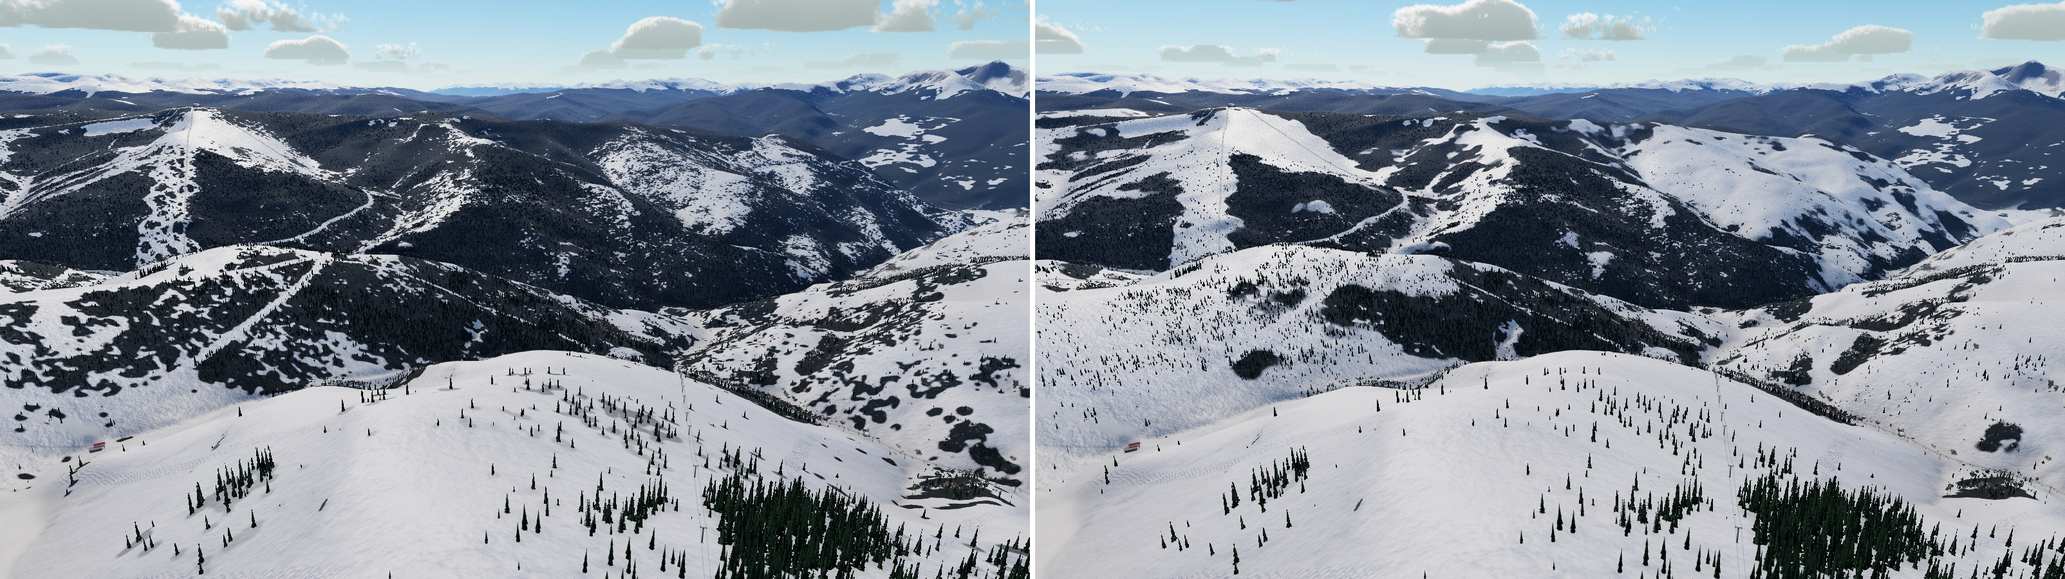
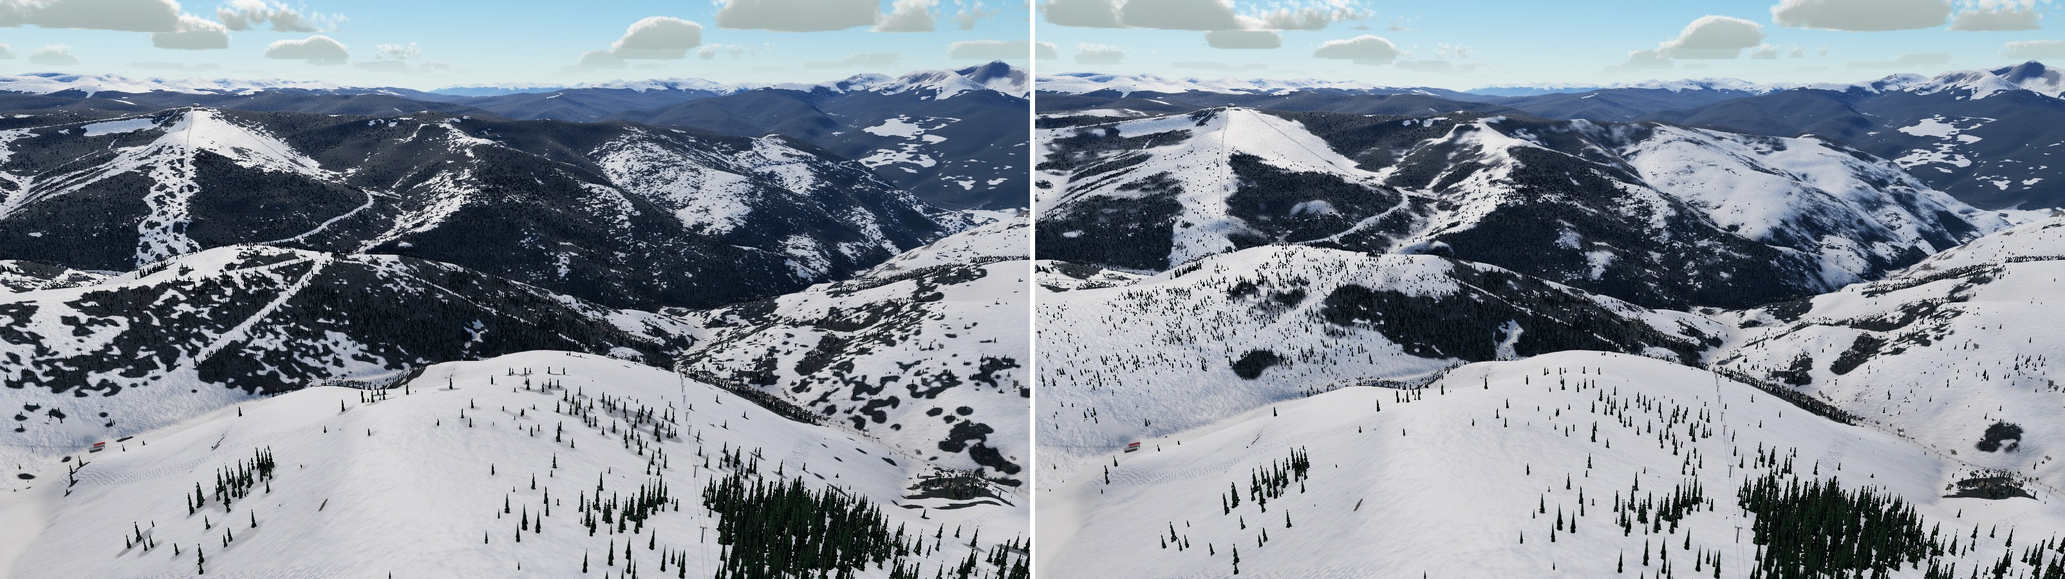
BUG-069: two forest views per cover level: closed stands near, crown-weighted mass from far off

diff --git a/game/src/terrain/TerrainMaterial.ts b/game/src/terrain/TerrainMaterial.ts
@@ -82,7 +82,7 @@ export const LIFT_RAMP = 2000;
 export const COVER_SLOTS = 3;
 const EMPTY_RECT = new THREE.Vector4(-1e7, -1e7, -1e7 + 1000, -1e7 + 1000); // weight 0 everywhere, finite uv
 function coverUniforms() {
-  const blank = new THREE.DataTexture(new Uint8Array(1), 1, 1, THREE.RedFormat, THREE.UnsignedByteType);
+  const blank = new THREE.DataTexture(new Uint8Array(2), 1, 1, THREE.RGFormat, THREE.UnsignedByteType);
   blank.needsUpdate = true;
   return {
     uCov0: { value: blank as THREE.Texture }, uCov1: { value: blank as THREE.Texture }, uCov2: { value: blank as THREE.Texture },
@@ -216,12 +216,18 @@ export function createTerrainMaterial(): THREE.MeshStandardMaterial {
         #define COVER_FULL 600.0
         float covW(vec2 p, vec4 r) { vec2 d = min(p - r.xy, r.zw - p); return smoothstep(0.0, uCovBlend, min(d.x, d.y)); }
         vec2 covUV(vec2 p, vec4 r) { return vec2((p.x - r.x) / (r.z - r.x), (r.w - p.y) / (r.w - r.y)); }
+        // BUG-069: G of a level is its forest under closed stands of drawn trees only, shown while single
+        // trees read (to STAND_NEAR m); R, the forest as a mass, takes over by STAND_FAR
+        #define STAND_NEAR 1200.0
+        #define STAND_FAR 2800.0
         // forest share (x) blended finest over coarsest, and how much of it is data (y). All three are
         // sampled unconditionally so the mip selection never sits in non-uniform control flow.
-        vec2 coverForest(vec2 p) {
-          float f0 = texture2D(uCov0, covUV(p, uCovRect[0])).r;
-          float f1 = texture2D(uCov1, covUV(p, uCovRect[1])).r;
-          float f2 = texture2D(uCov2, covUV(p, uCovRect[2])).r;
+        vec2 coverForest(vec2 p, float dist) {
+          float farK = smoothstep(STAND_NEAR, STAND_FAR, dist);
+          vec2 t0 = texture2D(uCov0, covUV(p, uCovRect[0])).rg;
+          vec2 t1 = texture2D(uCov1, covUV(p, uCovRect[1])).rg;
+          vec2 t2 = texture2D(uCov2, covUV(p, uCovRect[2])).rg;
+          float f0 = mix(t0.g, t0.r, farK), f1 = mix(t1.g, t1.r, farK), f2 = mix(t2.g, t2.r, farK);
           float w0 = covW(p, uCovRect[0]), w1 = covW(p, uCovRect[1]), w2 = covW(p, uCovRect[2]);
           float f = f0 * w0, c = w0;
           f = mix(f, f1, w1); c = mix(c, 1.0, w1);
@@ -402,7 +408,7 @@ export function createTerrainMaterial(): THREE.MeshStandardMaterial {
         // cover is low in the data (BUG-028), so it is lifted; runs and bowls (no canopy) stay white.
         // FEAT-153: past COVER_NEAR the forest comes per pixel from the cover levels (already a share of
         // ground under closed canopy, so only a mild S curve keeps mip-averaged trail edges from greying)
-        vec2 cov = coverForest(vec2(wp.x, -wp.z));
+        vec2 cov = coverForest(vec2(wp.x, -wp.z), dist);
         float covK = cov.y * smoothstep(COVER_NEAR, COVER_FULL, dist);
         float forestV = mix(vForest, cov.x, covK);
         float forestK = mix(smoothstep(FOREST_LO, FOREST_HI, vForest), smoothstep(0.1, 0.9, cov.x), covK);

diff --git a/game/src/pack/CoverSet.ts b/game/src/pack/CoverSet.ts
@@ -19,7 +19,7 @@ export class CoverLevel {
   private cw = 0;
   private ch = 0;
   private cres = 0;
-  /** forest channel at full resolution, mipmapped */
+  /** forest at full resolution, mipmapped: R from far off, G from near */
   texture: THREE.DataTexture | null = null;
 
   constructor(meta: CoverLevelMeta) {
@@ -36,10 +36,21 @@ export class CoverLevel {
     const { w, h } = this.meta;
     const px = decodeRGBA(bmp, w, h);
     bmp.close();
-    // GPU: the forest channel only
-    const r = new Uint8Array(w * h);
-    for (let i = 0; i < w * h; i++) r[i] = px[i * 4];
-    const tex = new THREE.DataTexture(r, w, h, THREE.RedFormat, THREE.UnsignedByteType);
+    // GPU: R = the forest as seen from far off, G = from near, where single trees show (BUG-069: only the
+    // closed stands of drawn trees; the same as R for a level without a `stands` image)
+    let near: Uint8ClampedArray | null = null;
+    if (this.meta.stands) {
+      try {
+        const r2 = await fetch(`${baseUrl}/${this.meta.stands}`);
+        if (!r2.ok) throw new Error(`HTTP ${r2.status}`);
+        const b2 = await createImageBitmap(await r2.blob(), { premultiplyAlpha: 'none', colorSpaceConversion: 'none' });
+        near = decodeRGBA(b2, w, h);
+        b2.close();
+      } catch (e) { console.warn(`cover ${this.meta.stands} not loaded`, e); }
+    }
+    const r = new Uint8Array(w * h * 2);
+    for (let i = 0; i < w * h; i++) { r[i * 2] = px[i * 4]; r[i * 2 + 1] = near ? near[i * 4] : px[i * 4]; }
+    const tex = new THREE.DataTexture(r, w, h, THREE.RGFormat, THREE.UnsignedByteType);
     tex.minFilter = THREE.LinearMipmapLinearFilter;
     tex.magFilter = THREE.LinearFilter;
     tex.wrapS = tex.wrapT = THREE.ClampToEdgeWrapping;

diff --git a/game/src/pack/types.ts b/game/src/pack/types.ts
@@ -28,6 +28,8 @@ export interface CoverLevelMeta {
   w: number;
   h: number;
   file: string;
+  /** BUG-069: optional greyscale PNG, same grid: the forest share under closed stands of drawn trees (the near view) */
+  stands?: string;
 }
 
 export interface CoverMeta {

diff --git a/pipeline/cover.py b/pipeline/cover.py
@@ -43,11 +43,17 @@ PACK_RUN_K = 0.6
 # far the far ring's data (cfg far_ring size_m)
 LC_LEVELS = (("mid", 16.0, 4), ("far", 100.0, 3))
 # BUG-069: the lifted lidar canopy reads a sparse stand (a tree every 10 m or so) as closed canopy, so far off
-# its snow went black between the few trees drawn there. The pack level's forest is kept only where the drawn
-# trees make a closed stand: the share of the ground under their crowns (averaged over CROWN_SIGMA m) passes
-# CROWN_LO..CROWN_HI (dense timber on Vail draws 0.2 to 0.4, sparse bowl stands 0.05 to 0.15), and the stand
-# is at least 2 x STAND_MIN_R m across (a grey opening), so a clump of a dozen trees on open snow is carried
-# by its trees alone instead of a dark patch around them.
+# its snow went black between the few trees drawn there. The pack level's forest is weighted by the trees the
+# client draws, twice:
+#   R (seen from far off, where single trees no longer read): by the share of the ground under their crowns,
+#     averaged over FAR_SIGMA m, full weight from CROWN_FULL up (dense timber on Vail draws 0.2 to 0.4, sparse
+#     bowl stands 0.05 to 0.15), so timber stays a solid dark mass and sparse stands fade to mostly white.
+#   stands (seen from near, where every tree shows): only closed stands keep it: the crown share (averaged
+#     over CROWN_SIGMA m) passes CROWN_LO..CROWN_HI and the stand is at least 2 x STAND_MIN_R m across (a grey
+#     opening, then a closing to fill the holes), so a clump of a dozen trees on open snow is carried by its
+#     trees alone instead of a dark patch around them.
+FAR_SIGMA = 16.0
+CROWN_FULL = 0.2
 CROWN_SIGMA = 10.0
 CROWN_LO, CROWN_HI = 0.05, 0.14
 STAND_MIN_R = 20.0
@@ -133,10 +139,10 @@ def tree_heights(pack_dir, meta, cell, w, h):
     return np.repeat(np.repeat(mean, k, 0), k, 1)[:h, :w]
 
 
-def crown_share(pack_dir, meta, w, h):
-    """BUG-069: the share of the ground (0..1) under the crowns the client draws, per PACK_RES cell over the
-    pack bounds (row 0 = north), averaged over CROWN_SIGMA. Crown radii as game/src/world/trees/species.ts
-    crownRadius: the species' natural radius times the height, pulled 0.85..1.25x toward the record's crown."""
+def crown_area(pack_dir, meta, w, h):
+    """BUG-069: the share of each PACK_RES cell over the pack bounds (row 0 = north) under the crowns the
+    client draws, unsmoothed (a cell can pass 1). Crown radii as game/src/world/trees/species.ts crownRadius:
+    the natural radius of the species times the height, pulled 0.85..1.25x toward the crown in the record."""
     b = meta["bounds"]
     area = np.zeros((h, w), np.float64)
     for t in tree_records(pack_dir, meta):
@@ -147,12 +153,11 @@ def crown_share(pack_dir, meta, w, h):
         c = ((t[:, 0] - b["minX"]) / PACK_RES).astype(int); r = ((b["maxY"] - t[:, 1]) / PACK_RES).astype(int)
         ok = (c >= 0) & (c < w) & (r >= 0) & (r < h)
         np.add.at(area, (r[ok], c[ok]), np.pi * cr[ok] ** 2)
-    from scipy import ndimage
-    return ndimage.gaussian_filter((area / PACK_RES ** 2).astype(np.float32), CROWN_SIGMA / PACK_RES)
+    return (area / PACK_RES ** 2).astype(np.float32)
 
 
 def closed_stand(crowns):
-    """BUG-069: 0..1 weight of the ground that is under a closed stand of drawn trees (see CROWN_LO above)"""
+    """BUG-069: 0..1 weight of the ground under a closed stand of drawn trees, from their smoothed crown share"""
     from scipy import ndimage
     dense = smoothstep(CROWN_LO, CROWN_HI, crowns).astype(np.float32)
     r = int(round(STAND_MIN_R / PACK_RES))
@@ -191,13 +196,21 @@ def pack_level(pack_dir, meta, runs, log=print):
     log(f"  pack cover {w} x {h} at {PACK_RES:g} m: forest {forest.mean()*100:.1f}%, "
         f"runs clear {(forest * burn).sum() / max(forest.sum(), 1) * 100:.1f}% of it")
     forest *= 1 - burn
-    crowns = crown_share(pack_dir, meta, w, h)
+    crowns = crown_area(pack_dir, meta, w, h)
+    stands = None
     if crowns.any():   # a pack without tree instances keeps its canopy (the ground then carries the forest)
+        from scipy import ndimage
         before = forest.sum()
-        forest *= closed_stand(crowns)
-        log(f"  closed stands of drawn trees keep {forest.sum() / max(before, 1) * 100:.1f}% of the forest (BUG-069)")
+        stands = forest * closed_stand(ndimage.gaussian_filter(crowns, CROWN_SIGMA / PACK_RES))
+        forest *= np.clip(ndimage.gaussian_filter(crowns, FAR_SIGMA / PACK_RES) / CROWN_FULL, 0, 1)
+        log(f"  drawn trees keep {forest.sum() / max(before, 1) * 100:.1f}% of the forest from far off, "
+            f"closed stands {stands.sum() / max(before, 1) * 100:.1f}% from near (BUG-069)")
     height = tree_heights(pack_dir, meta, 16.0, w, h)
-    return write_level(pack_dir, "pack", to_rgba(forest, height, rock, np.zeros_like(forest)), PACK_RES, b["minX"], b["minY"])
+    lv = write_level(pack_dir, "pack", to_rgba(forest, height, rock, np.zeros_like(forest)), PACK_RES, b["minX"], b["minY"])
+    if stands is not None:
+        lv["stands"] = "cover/pack-stands.png"
+        Image.fromarray((np.clip(stands, 0, 1) * 255 + 0.5).astype(np.uint8), "L").save(os.path.join(pack_dir, lv["stands"]), optimize=True)
+    return lv
 
 
 # ------------------------------------------------------------------ DATA-019: land cover outside the pack

diff --git a/docs/developer-guide.md b/docs/developer-guide.md
@@ -7,7 +7,7 @@ pipeline script, URL parameters and the milestone history. Process docs: [HANDOF
 
 ## Features in detail
 
-- Terrain: quadtree LOD over the 262 km far ring, 1 m near the rider, snow / rock / scree / groomed material; forested ground darkens from the tree impostor ring outward so the far forest reads dark. Distant forest (FEAT-153, `pack/CoverSet.ts`): past about 300 m the shader takes the forest share per pixel from the pack's cover levels (`cover/*.png`, a mipmapped texture per level, up to 3), so the real forest edges and the ski trails cut through it show at any distance; chunks coarser than 8 m take forest, rock and canopy height from the same levels per vertex instead of the procedural treeline (`proceduralForest`, now only where no level reaches or before they load). From the impostors' reach (`uLiftNear`, Vegetation's FAR_RADIUS: 4.5 km at full tree density, nearer on lower density settings) to 2 km past it, chunks coarser than 8 m rise by canopy height x cover x 0.7 (the `lift` attribute, applied in the vertex shader) so forested ridges read as treed; the far timber has a crown-scale texture that fades to an even tone once a pixel is wider than a crown. Forest from high up (FEAT-154, `docs/research/far-terrain.md` section 7): how dark forested ground goes is a gap fraction, `1 - ((1 - s) / (1 - rho s))^(1 / mu)` of the cover share `s` and the cosine `mu` between the ground normal and the view, so grazing views from the snow see a closed mass and views from the air see the openings; inside the trees' reach `rho` (`uForestDrawn`, 0.7) is the part of the canopy the drawn trees already cover, and outside the pack's tree instances (`uTreeRect`, set by `Terrain` from `meta.instances`) the ground carries the forest from the first metre. Sunlit canopy takes `uCanopySun` (0.3) of the direct light and a forested pixel is `uTimberMix` (0.97) timber. `uDebugFar` switches terms off for A/B stills (x forest, y rock and talus, z snow drift normals; w paints the forest darkening red), for example `SHOT_EVAL` or a `tools/aerial.mjs` variant setting `__sim.terrain.material.userData.uniforms.uDebugFar.value.set(1, 0, 0, 0)`.
+- Terrain: quadtree LOD over the 262 km far ring, 1 m near the rider, snow / rock / scree / groomed material; forested ground darkens from the tree impostor ring outward so the far forest reads dark. Distant forest (FEAT-153, `pack/CoverSet.ts`): past about 300 m the shader takes the forest share per pixel from the pack's cover levels (`cover/*.png`, a mipmapped texture per level, up to 3), so the real forest edges and the ski trails cut through it show at any distance; to 1.2 km it reads the level's closed stands of drawn trees (G of the texture, the `stands` image) and from 2.8 km the forest as a mass (R), so open slopes with a few trees stay white up close and far timber stays solid (BUG-069); chunks coarser than 8 m take forest, rock and canopy height from the same levels per vertex instead of the procedural treeline (`proceduralForest`, now only where no level reaches or before they load). From the impostors' reach (`uLiftNear`, Vegetation's FAR_RADIUS: 4.5 km at full tree density, nearer on lower density settings) to 2 km past it, chunks coarser than 8 m rise by canopy height x cover x 0.7 (the `lift` attribute, applied in the vertex shader) so forested ridges read as treed; the far timber has a crown-scale texture that fades to an even tone once a pixel is wider than a crown. Forest from high up (FEAT-154, `docs/research/far-terrain.md` section 7): how dark forested ground goes is a gap fraction, `1 - ((1 - s) / (1 - rho s))^(1 / mu)` of the cover share `s` and the cosine `mu` between the ground normal and the view, so grazing views from the snow see a closed mass and views from the air see the openings; inside the trees' reach `rho` (`uForestDrawn`, 0.7) is the part of the canopy the drawn trees already cover, and outside the pack's tree instances (`uTreeRect`, set by `Terrain` from `meta.instances`) the ground carries the forest from the first metre. Sunlit canopy takes `uCanopySun` (0.3) of the direct light and a forested pixel is `uTimberMix` (0.97) timber. `uDebugFar` switches terms off for A/B stills (x forest, y rock and talus, z snow drift normals; w paints the forest darkening red), for example `SHOT_EVAL` or a `tools/aerial.mjs` variant setting `__sim.terrain.material.userData.uniforms.uDebugFar.value.set(1, 0, 0, 0)`.
 - Trees (FEAT-156, `world/trees/`, drawn by `world/Vegetation.ts`): a procedural asset kit, nothing downloaded. `species.ts` is the table of the eight species (ids as in the pack, DATA-020: 0 Engelmann spruce, 1 aspen, 2 krummholz, 3 subalpine fir, 4 lodgepole, 5 Douglas-fir, 6 limber pine, 7 snag) with their shape, colours, whorls and variant weights; packs without `meta.treeSpecies` (0 to 2 only) split their conifers 60/40 into spruce and fir by a position hash. `textures.ts` draws one 1024 x 1024 atlas at load (12 grey branch-spray cells and 8 bark swatches, tinted per species by vertex colour; transparent texels carry the cell's mean colour and each mip keeps the cell's alpha coverage). `generate.ts` builds every species x 4 variants (seeded: tier count, gaps, droop, lean, a double or broken top on some spruce and fir) at unit height and crown radius 1 from one plan per variant, so LOD0 (trunk + bent alpha cards, normals bent out from the trunk) and LOD1 (trunk + star-edged cones or blobs) share a silhouette. `materials.ts` holds the LOD hook: each LOD draws only in its band of distance from the camera (`kitUniforms.uLodCam`, so the shadow pass agrees) and crossfades with the next by a screen-door dither (Bayer 8x8, complementary cells); LOD0 sways (`TreeKit.setWind`). LOD2 (crossed quads) and the impostors (camera-facing quads) sample albedo and normal atlases baked from LOD0 (`TreeKit.bake`, 8 angles x 8 species) and are lit in the shader like the standard material (sun, hemisphere, a quarter of the GGX specular, `FAR_GAIN`), so the colour holds across the swaps. Bands: LOD0 to 80 m, LOD1 to 400 m, LOD2 to 1.5 km, impostors to 4.5 km, scaled by the tree density setting (`setVegetationDensity`). `Vegetation` fills LOD0 and LOD1 from the trees near the camera (one InstancedMesh per species x variant, regathered every 25 / 60 m of camera movement through a 100 m sub-tile index per cell) and keeps one LOD2 and one impostor mesh per 1 km cell (all species, `iSpec` per instance). Tune the look with `tools/treeshot.mjs`, the cost with `tools/treeperf.mjs`.
 - Riding: carving on a real edge angle (up to 72 deg on firm snow, 45 in powder) with the turn radius from the board's sidecut, washing into a skid past the grip; edge to edge takes about 0.3 s at speed; the rider leans into the hill up to 60 deg with deep toeside and heelside carve poses. Hard carve (FEAT-148, the squat key held while steering): `Rider.hardCarve` eases in, the edge cap goes to `HARD_PSI` (80 deg) and the edge rolls `HARD_ROLL` times faster (slowing with the square of the speed past `HARD_ROLL_V`), the lean may reach `HARD_PHI` and the snow holds up to `HARD_G` (2.6 g) times its grip; the press asks for the turn of the target edge, driven in over `HARD_DRIVE_T` once the edge is on the steer's side, while the edge holds only what its real angle balances, so a lagging edge (pressed from flat at speed, on ice) skids (`carveShort`, folded into `skid` for the drag, spray and sound) and short of more than `WASH_SHARE` (35%) of the turn asked, at speed, fills `washout` (a share, so softer snow that asks less washes out alike; the snow's grip scales what the edge holds; only deep powder, its share times depth over `HARD_DEEP` 30 cm, lowers the hard carve's edge cap and stops the washout); full, the rider crashes to the inside of the turn (`crashSide`, the ragdoll topples that way) and `onWashout` toasts it. `HARD_DRAG` adds a drag from the lateral acceleration. The view lays the body over to `LEAN_HARD` (73 deg) in the deep carve stance (BUG-066: the squat pose fades out while `hardCarve` is in, and `RiderView.deckDeficit` lifts the hips until the shins, knees and thighs clear the deck in the board's own frame, `DECK_CLEAR`) and drags the inside hand on the snow; the spray, the track depth and the carve hiss rise with it; `?debug` shows hard, short and wash. Also tuck, brake (the board swings across into a hockey stop, scrapes a wide track and holds on its edge once stopped; steering while braking digs the edge in for a harder stop or lets it off into a skidded turn or a side-slip), the fall line (a flat board follows its slide down the hill and side-slips when let go across it unless the uphill edge is held; on Realistic the edge catches when the board slides sideways onto its leading edge, or slides flat over rough snow; Settings > Gameplay > Fall line: Realistic (the default), Assisted, Off; the Feel presets set it, Arcade to Off), charged jumps with ollie and nollie off the board's spring (hold W / S with Space), nose and tail presses (Q / Z) balanced on a meter (FEAT-140: `Rider.pressStep`, the needle `pressBalance` drifts with the hold time, speed and bumps, runs away off centre, and W / S or the stick shift the weight back (over 0.15 s, and always strong enough to win, so there is no time limit); off the loaded end a slam that topples the ragdoll over that end (`Rider.crashFall`) or a stall, off the other end the board drops flat; a press key held through a trick lands into the press (`pressFrom`); `onPress` reports the time and distance, `ui/PressMeter.ts` draws the meter over the head, tunables `PB_*` and `PRESS_RANGE` (how far the balance runs before it is lost; the body leans in proportion) at the top of `Rider.ts`, Settings > Gameplay > Press balance Easy / Normal / Hard / Off, also set by the Feel presets), squat (Left Ctrl), skating on the flat (X), grabs, air spins, front flips and backflips (Up / Down in the air, trick names toast on landing: flips, and spins as "Frontside 180" / "Backside 360"), landings; collisions with trees, rocks and building walls. The snowboard bends when loaded. Snowboard or skis, outfit colours, articulated rider with blended poses. The body leads and the board follows (BUG-056, visual only): the head and shoulders pose about 0.2 s ahead of the physics (the steer's target edge and the heading the turn rate is reaching), the hips and the body's inclination about 0.12 s ahead, each lead signal followed through a critically damped 0.09 s body response (`BODY_RESPONSE`) so the body moves at a human speed instead of snapping to its prediction, and the board as drawn trails the physics yaw and edge by about 0.08 s (critically damped, never rolled past the physics edge, snapped on landings and crashes), so an edge change reads look, shoulders, hips, knees, board. Tunables `LEAD_UPPER`, `LEAD_HIPS`, `BOARD_LAG` at the top of `RiderView.ts`, live on `riderView.leadUpper` / `leadHips` / `boardLag` and as sliders under `?debug`.
 - Riding switch and stance (FEAT-139): `rider.heading` is always the steering axis along the direction of travel, and every physics value (edge, lateral g, lean, flip, brake side) is in its frame, so + edge is the heading's right-hand edge. Going backwards along it faster than `FAKIE_SPEED` (2.5 m/s), or landing with the board backwards, `turnRound()` adds PI to the heading and board yaw, negates the edge, lean and lateral g, and toggles `rider.switch`. `rider.goofy` comes from Settings > Gameplay > Stance. `rider.toeSign` is -1 when switch and goofy differ: `RiderView` then draws the board and body at the yaw + PI and negates every sideways and fore-aft value into the rig's frame (`fl`), so turning round never moves the rider on screen and the toe and heel poses stay the rider's own. A goofy rig (`buildRig(..., goofy)`) has the deck's nose at +Z and the +15 / -6 bindings swapped ends, so drawn turned round it is a true goofy stance. Seated and on foot are always drawn along the heading; unstrapping and strapping in turn the heading round when needed so nothing pops. Switch is 4 % less grip (`SWITCH_GRIP`), shows SWITCH on the HUD, and prefixes trick names ("Switch backside 180"). Replays and ghosts carry flag bits 8 (switch) and 16 (goofy). Skis never ride switch.
@@ -149,7 +149,7 @@ Flow: `resorts/<slug>.json` -> `gen_manifest.py` -> `manifests/<slug>.json` -> `
 - `packwriter.py` shared pack writer (Terrarium height tiles, masks) used by `build_pack.py` and `synth_pack.py`.
 - `terrain_ao.py` baked sky visibility (terrain ambient occlusion) from the DEM, used by the pack build.
 - `piste_dir.py` piste direction (DATA-002): the groomed runs' axis per 2 m cell as the `dir/` tile set, used by both pack builds; `python pipeline/piste_dir.py packs/<slug>` adds it to an existing pack from `features.json` and the mask tiles without a rebuild. The terrain (`Terrain.ts`) points it downhill and feeds it to the corduroy as the `fall` attribute, falling back to the smoothed fall line where a pack has no set.
-- `cover.py <slug> <raw_dir> <pack_dir>` (FEAT-153) forest cover levels for the terrain at a distance (`cover/*.png`, see `docs/pack-format.md`): the pack's own canopy at 4 m with its OSM runs burned in and kept only under closed stands of the drawn trees, at least 40 m across (BUG-069: sparse stands and small clumps stay snow with their trees at a distance; rerun it on a pack built before that), and (DATA-019) the mid (16 m, 40 km) and far (100 m, 200 km) levels from ESA WorldCover and the ETH canopy height with the pistes of every resort in view burned in. Runs as the last step of `build_pack.py`, or standalone on a built pack in seconds.
+- `cover.py <slug> <raw_dir> <pack_dir>` (FEAT-153) forest cover levels for the terrain at a distance (`cover/*.png`, see `docs/pack-format.md`): the pack's own canopy at 4 m with its OSM runs burned in and weighted by the drawn trees (BUG-069: R by their crown share for the view from far off, and a `stands` image with only the closed stands at least 40 m across for the near view, so sparse stands and small clumps stay snow with their trees; rerun it on a pack built before that), and (DATA-019) the mid (16 m, 40 km) and far (100 m, 200 km) levels from ESA WorldCover and the ETH canopy height with the pistes of every resort in view burned in. Runs as the last step of `build_pack.py`, or standalone on a built pack in seconds.
 - `species.py` (DATA-020) tree species ids 0 to 7 (spruce, aspen, krummholz, fir, lodgepole, Douglas-fir, limber pine, snag) from the LANDFIRE class, elevation, aspect, distance to OSM streams, exposed crests and grey dead crowns, and the shrub set (willow, juniper, sagebrush, young conifer, Gambel oak); `build_pack.py` stage 8 calls it, logs per-species counts per 200 m elevation band and writes `debug/species.png` into the pack. Without a LANDFIRE clip it falls back to elevation and aspect. The client draws every id with its own species from the tree kit (FEAT-156); shrubs are not drawn yet (FEAT-159).
 - `moguls.py` (FEAT-059) scores each run for mogul fields (grooming reports, difficulty, slope and aspect along the centre line, lift-top traffic; cat tracks, glades and greens never) and paints the amplitude raster the pack build writes as the `moguls` tile set. The build log lists the top-scoring runs. Tests: `cd pipeline && python -m pytest tests`.
 - `ept_select.py <dataset> <depth_in_ski_area> <depth_in_buffer> [out.txt]` picks the EPT lidar nodes over a resort for the manifest (boxes are hard-coded for Breckenridge).

diff --git a/docs/pack-format.md b/docs/pack-format.md
@@ -83,11 +83,14 @@ start); A = 255 minus built-up (inverted so a decoder that premultiplies alpha k
 level is 4 m over the pack bounds: the 2 m mask's canopy, contrast-lifted as the shader lifts the
 under-detected lidar canopy (0.08 to 0.45) and then box-averaged, with the pack's OSM runs burned in as
 cleared strips (areas filled, lines at 0.6 of their corridor width; gladed runs keep their trees), the
-mask's rock, and the mean tree height per 16 m from the tree instances. The forest is then kept only
-under closed stands of the pack's tree instances (BUG-069): the share of the ground under their crowns,
-averaged over 10 m, passes 0.05 to 0.14, and the stand is at least 40 m across (clumps smaller than that are
-dropped, holes that size inside a stand filled). A sparse stand the lidar canopy reads as closed, or a clump
-of a dozen trees, stays snow with its trees instead of a dark patch. A pack without tree instances keeps the canopy as is.
+mask's rock, and the mean tree height per 16 m from the tree instances. The forest is then weighted by
+the pack's tree instances (BUG-069), so a sparse stand the lidar canopy reads as closed is not a dark patch
+around its few trees. R, the forest seen from far off, is weighted by the share of the ground under the
+crowns (averaged over 16 m, full weight from 0.2 up). The level's optional `stands` image (greyscale, same
+grid, `cover/pack-stands.png`) is the forest seen from near, where single trees show: only closed stands
+keep it (the crown share averaged over 10 m passes 0.05 to 0.14, and the stand is at least 40 m across:
+smaller clumps are dropped, holes that size inside a stand filled). The shader shows `stands` to 1.2 km and
+R from 2.8 km. A pack without tree instances keeps the canopy as is.
 
 The `mid` (16 m over the mid height grid, 40 km) and `far` (100 m over the far ring's data, 200 km) levels
 come from the land cover (DATA-019): ESA WorldCover 2021 classes and the ETH 2020 canopy height, read on a
@@ -169,7 +172,7 @@ Cell size is `meta.instances.cellSize` (1000 m), origin `meta.instances.minX/min
   "dir": { same fields as mask },                          // optional, DATA-002
   "moguls": { same fields as mask },                       // optional, FEAT-059
   "cover": { "heightMax": 40, "blend": 500,                 // optional, FEAT-153
-             "levels": [{ "name": "pack", "res": 4, "minX", "minY", "w", "h", "file": "cover/pack.png" },
+             "levels": [{ "name": "pack", "res": 4, "minX", "minY", "w", "h", "file": "cover/pack.png", "stands": "cover/pack-stands.png" },
                         { "name": "mid", "res": 16, ... }, { "name": "far", "res": 100, ... }] },
   "instances": { "cellSize": 1000, "minX", "minY", "cellsX", "cellsY", "treeCount", "rockCount", "treeCells", "rockCells",
                  "shrubCount", "shrubCells" },              // shrub fields optional, DATA-020
